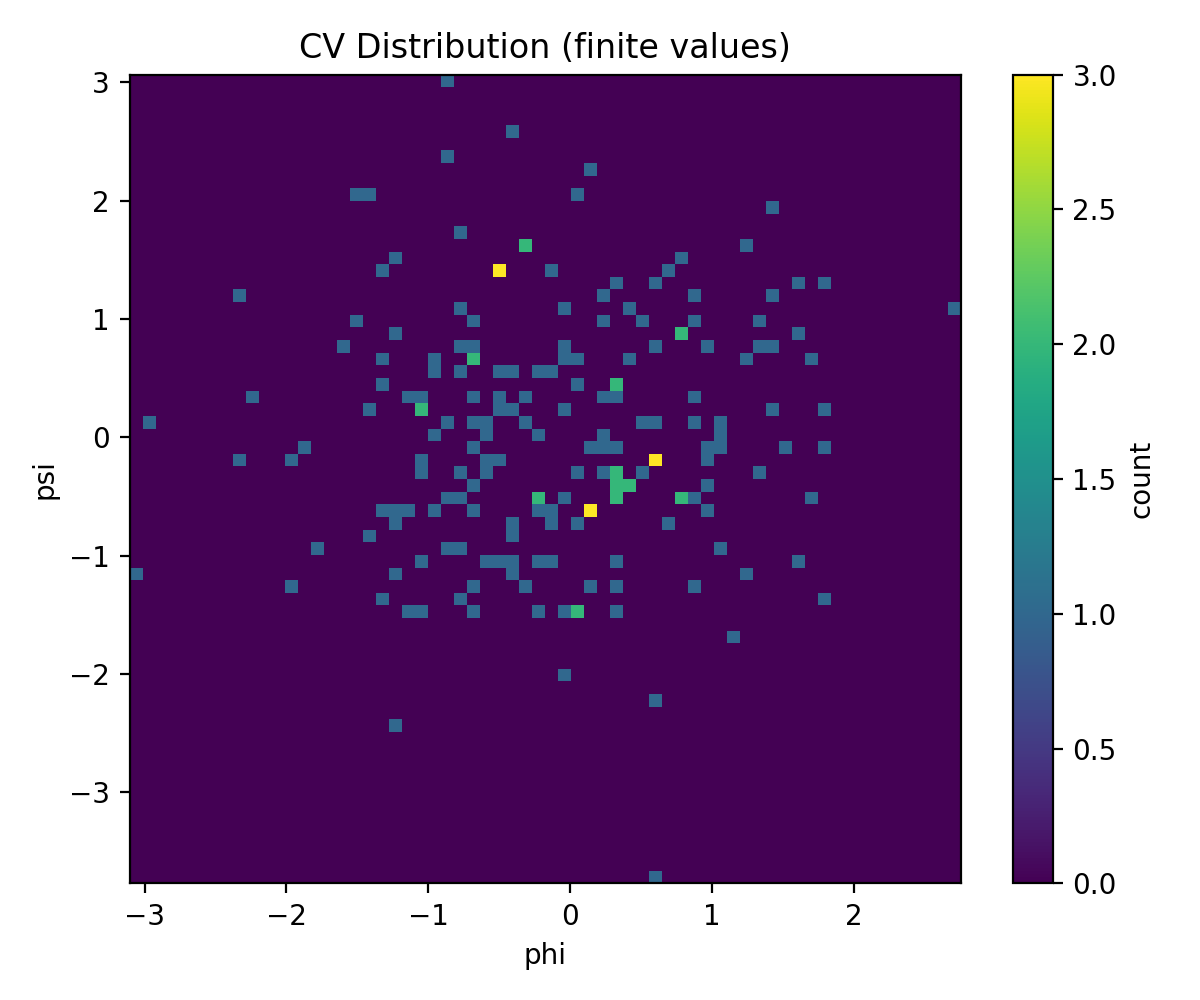
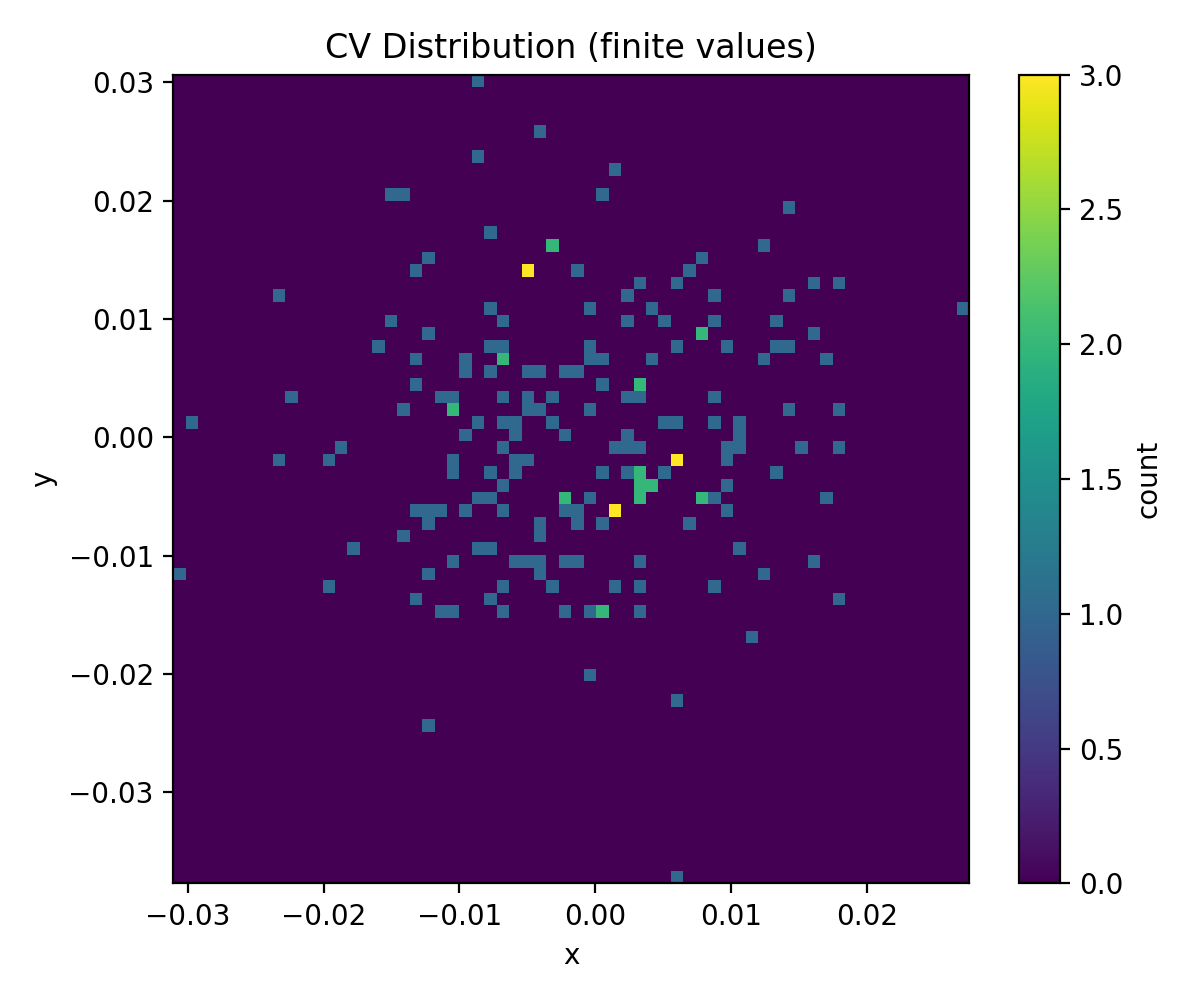
0.0.124b - test failures

diff --git a/src/pmarlo/demultiplexing/demux.py b/src/pmarlo/demultiplexing/demux.py
@@ -18,7 +18,7 @@ from typing import Any, Dict, Literal, Mapping, Optional, cast
 import numpy as np
 from openmm import unit  # type: ignore
 
-from pmarlo.io.trajectory_reader import get_reader
+from pmarlo.io.trajectory_reader import TrajectoryIOError, get_reader
 from pmarlo.io.trajectory_writer import get_writer
 from pmarlo.transform.progress import ProgressCB
 from pmarlo.utils.logging_utils import (
@@ -194,7 +194,22 @@ def _run_streaming_demux(
 
     backend = _resolve_backend(remd)
     reader = _configure_reader(backend, remd, warn_label="DEMUX chunk size")
-    replica_paths, replica_frames = _probe_replica_info(remd, reader)
+    replica_paths, replica_frames, had_reader_error = _probe_replica_info(
+        remd, reader
+    )
+    if not replica_paths:
+        logger.warning("No replica trajectories provided; skipping demultiplexing")
+        return None
+    if not any(count > 0 for count in replica_frames):
+        if had_reader_error:
+            logger.warning(
+                "No readable replica trajectories were found; skipping demultiplexing"
+            )
+        else:
+            logger.warning(
+                "Replica trajectories reported zero frames; skipping demultiplexing"
+            )
+        return None
     replica_strides = _resolve_replica_strides(remd)
 
     plan = build_demux_plan(
@@ -388,19 +403,48 @@ def _configure_reader(backend: str, remd: Any, *, warn_label: str) -> Any:
     return reader
 
 
-def _probe_replica_info(remd: Any, reader: Any) -> tuple[list[str], list[int]]:
+def _probe_replica_info(
+    remd: Any, reader: Any
+) -> tuple[list[str], list[int], bool]:
     replica_paths: list[str] = []
     replica_frames: list[int] = []
+    had_reader_error = False
     for path in remd.trajectory_files:
-        replica_paths.append(str(path))
+        str_path = str(path)
+        replica_paths.append(str_path)
         try:
-            frame_count = reader.probe_length(str(path))
-        except Exception as exc:  # noqa: BLE001
+            frame_count = reader.probe_length(str_path)
+        except FileNotFoundError:
+            logger.warning(
+                "Replica trajectory %s is missing; treating as zero available frames",
+                str_path,
+            )
+            replica_frames.append(0)
+            continue
+        except TrajectoryIOError as exc:
+            if _missing_file_error(exc):
+                logger.warning(
+                    "Replica trajectory %s is missing; treating as zero available frames",
+                    str_path,
+                )
+                replica_frames.append(0)
+                continue
             raise RuntimeError(
-                f"Failed to probe frame count for replica trajectory {path}"
+                f"Failed to probe frame count for replica trajectory {str_path}"
             ) from exc
         replica_frames.append(int(frame_count))
-    return replica_paths, replica_frames
+    return replica_paths, replica_frames, had_reader_error
+
+
+def _missing_file_error(exc: BaseException) -> bool:
+    current: BaseException | None = exc
+    while current is not None:
+        if isinstance(current, FileNotFoundError):
+            return True
+        cause = current.__cause__
+        context = current.__context__ if cause is None else None
+        current = cause if cause is not None else context
+    return False
 
 
 def _resolve_replica_strides(remd: Any) -> list[int] | None:

diff --git a/AGENTS.md b/AGENTS.md
@@ -17,3 +17,4 @@
 15. Do not use the lazy import. Currently python is as fast as it is so we don't need that technique. Prefer the maintaiability.
 16. When you run the poetry run pytest or any pytest command, NEVER USE it with -noProfile.
 17. Whenever a test case is required, always use real data—never stubs or synthetically generated examples. For instance, consistently use the 3gd8-fixed PDB file rather than any other fabricated version.
+18. Whenever you can't run the poetry run pytest, try it with the 'POETRY_VIRTUALENVS_CREATE=true'.

diff --git a/changelog.d/20250321-demux-missing-trajectories.md b/changelog.d/20250321-demux-missing-trajectories.md
@@ -1,0 +1,1 @@
+- Prevent demultiplexing from raising when replica trajectory files are missing by logging the probe failure and exiting early when no readable frames remain.

diff --git a/changelog.d/20250321-demux-missing-trajectory.md b/changelog.d/20250321-demux-missing-trajectory.md
@@ -1,0 +1,1 @@
+- Handle missing replica trajectory files during demultiplexing by reporting zero available frames instead of raising runtime errors.

diff --git a/changelog.d/20250324-demux-missing-trajectories.md b/changelog.d/20250324-demux-missing-trajectories.md
@@ -1,0 +1,1 @@
+- Prevented demultiplexing from crashing when replica trajectory files are missing by logging the probe failure and returning no output instead of raising.